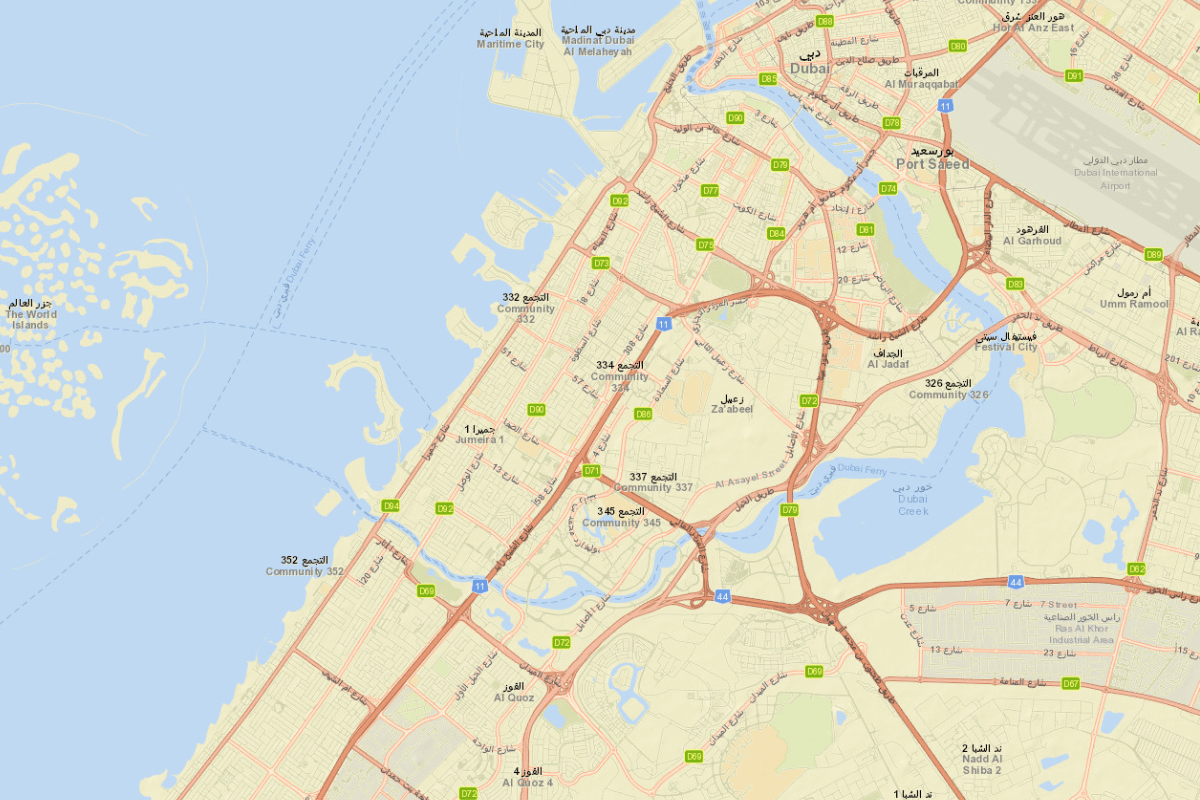
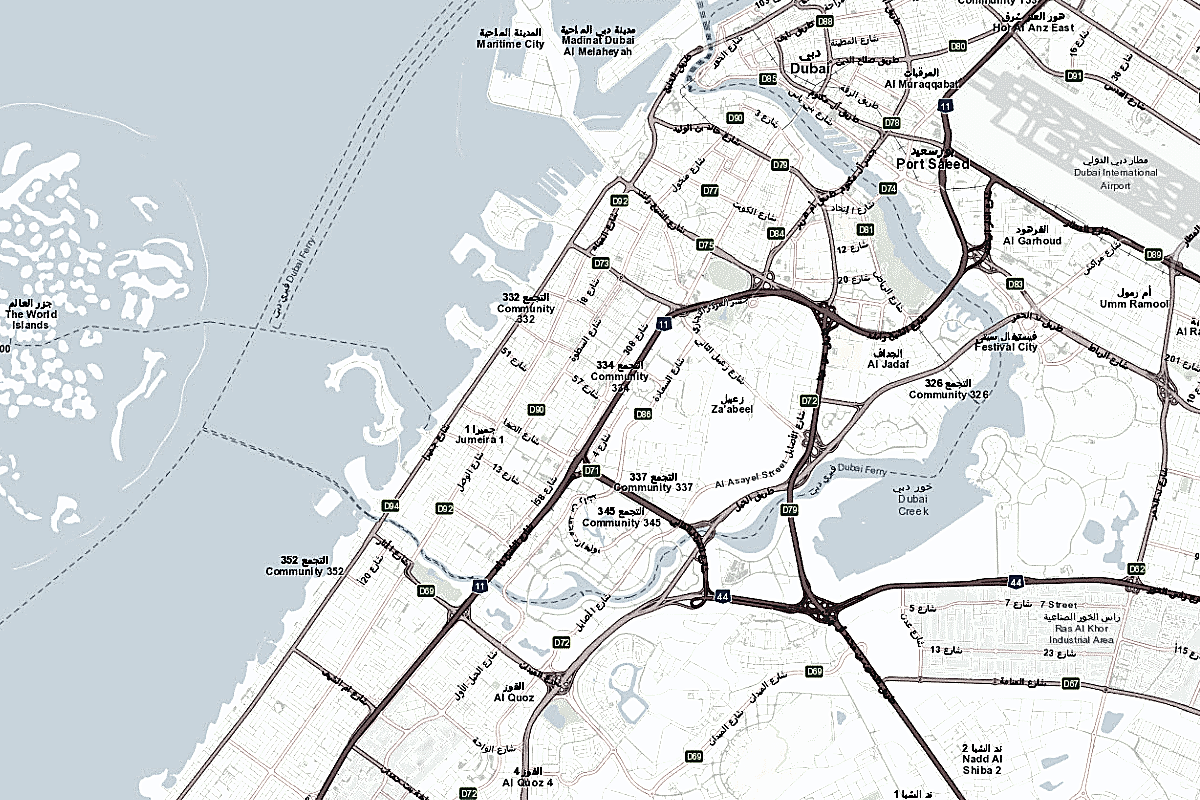
feat(guias): apply Modern light map style to all city guides
Ronilson chose Opção 2. Light Positron-like basemap assets for all
cities plus production CSS wash; footprint and pins unchanged.

diff --git a/src/app/globals.css b/src/app/globals.css
@@ -219,16 +219,14 @@ body {
   .guide-ken { animation: none; }
 }
 
-/* Modern cool theme over vintage city-map PNGs (shared by all guides). */
+/* Modern light (Opção 2) — production default for all city-guide 30s maps. */
 .guide-city-map {
-  background:
-    radial-gradient(circle at 28% 18%, rgba(125, 211, 252, 0.28), transparent 46%),
-    linear-gradient(160deg, #c9d9ea 0%, #e8eef6 52%, #c5d4e4 100%);
+  background: linear-gradient(160deg, #eef2f6 0%, #f7f9fb 100%);
 }
 
 .guide-city-map__img {
-  /* Cool/desaturate beige Stamen-like maps into a contemporary slate-blue read. */
-  filter: sepia(0.12) saturate(0.22) contrast(1.38) brightness(1.2) hue-rotate(198deg);
+  /* Light Positron-like assets; slight contrast keeps baked street/arrondissement labels readable. */
+  filter: contrast(1.08) brightness(1.03);
   transform: scale(1.02);
   transform-origin: center;
 }
@@ -236,48 +234,63 @@ body {
 .guide-city-map__wash {
   pointer-events: none;
   background:
-    linear-gradient(180deg, rgba(15, 23, 42, 0.18) 0%, transparent 30%, rgba(15, 23, 42, 0.2) 100%),
-    linear-gradient(120deg, rgba(14, 165, 233, 0.18), transparent 42%, rgba(99, 102, 241, 0.12));
-  mix-blend-mode: color;
-  opacity: 0.55;
+    linear-gradient(180deg, rgba(255, 255, 255, 0.28) 0%, transparent 35%, rgba(15, 23, 42, 0.08) 100%),
+    linear-gradient(120deg, rgba(148, 163, 184, 0.12), transparent 50%);
+  mix-blend-mode: normal;
+  opacity: 0.65;
 }
 
 .guide-city-map__wash::after {
   content: '';
   position: absolute;
   inset: 0;
-  background: linear-gradient(180deg, rgba(241, 245, 249, 0.08), transparent 40%, rgba(15, 23, 42, 0.12));
+  background: linear-gradient(180deg, rgba(248, 250, 252, 0.12), transparent 40%, rgba(15, 23, 42, 0.06));
   mix-blend-mode: soft-light;
 }
 
 .guide-city-map__grid {
   pointer-events: none;
-  opacity: 0.18;
+  opacity: 0.1;
   background-image:
-    linear-gradient(rgba(15, 23, 42, 0.07) 1px, transparent 1px),
-    linear-gradient(90deg, rgba(15, 23, 42, 0.07) 1px, transparent 1px);
+    linear-gradient(rgba(15, 23, 42, 0.06) 1px, transparent 1px),
+    linear-gradient(90deg, rgba(15, 23, 42, 0.06) 1px, transparent 1px);
   background-size: 44px 44px;
   mask-image: radial-gradient(circle at center, black 38%, transparent 90%);
 }
 
-/* Preview themes for /mapa-opcoes (production default = no data-map-theme / atual-slate). */
+/* Preview themes for /mapa-opcoes (production default = modern-light / no data-map-theme). */
+.guide-city-map[data-map-theme='atual-slate'] {
+  background:
+    radial-gradient(circle at 28% 18%, rgba(125, 211, 252, 0.28), transparent 46%),
+    linear-gradient(160deg, #c9d9ea 0%, #e8eef6 52%, #c5d4e4 100%);
+}
 .guide-city-map[data-map-theme='atual-slate'] .guide-city-map__img {
   filter: sepia(0.12) saturate(0.22) contrast(1.38) brightness(1.2) hue-rotate(198deg);
+}
+.guide-city-map[data-map-theme='atual-slate'] .guide-city-map__wash {
+  background:
+    linear-gradient(180deg, rgba(15, 23, 42, 0.18) 0%, transparent 30%, rgba(15, 23, 42, 0.2) 100%),
+    linear-gradient(120deg, rgba(14, 165, 233, 0.18), transparent 42%, rgba(99, 102, 241, 0.12));
+  mix-blend-mode: color;
+  opacity: 0.55;
+}
+.guide-city-map[data-map-theme='atual-slate'] .guide-city-map__grid {
+  opacity: 0.18;
 }
 
 .guide-city-map[data-map-theme='modern-light'] {
   background: linear-gradient(160deg, #eef2f6 0%, #f7f9fb 100%);
 }
 .guide-city-map[data-map-theme='modern-light'] .guide-city-map__img {
-  filter: none;
-  transform: scale(1.01);
+  filter: contrast(1.08) brightness(1.03);
+  transform: scale(1.02);
 }
 .guide-city-map[data-map-theme='modern-light'] .guide-city-map__wash {
   background:
-    linear-gradient(180deg, rgba(255, 255, 255, 0.25) 0%, transparent 35%, rgba(15, 23, 42, 0.08) 100%),
+    linear-gradient(180deg, rgba(255, 255, 255, 0.28) 0%, transparent 35%, rgba(15, 23, 42, 0.08) 100%),
     linear-gradient(120deg, rgba(148, 163, 184, 0.12), transparent 50%);
   mix-blend-mode: normal;
-  opacity: 0.7;
+  opacity: 0.65;
 }
 .guide-city-map[data-map-theme='modern-light'] .guide-city-map__grid {
   opacity: 0.1;

diff --git a/src/app/mapa-opcoes/page.js b/src/app/mapa-opcoes/page.js
@@ -55,24 +55,24 @@ const GEO_PINS = [
 
 export const MAP_STYLE_OPTIONS = [
   {
-    id: 'atual-slate',
-    name: 'Atual slate (produção)',
-    short: 'atual-slate',
-    description: 'CSS cool slate-blue atual sobre o PNG vintage — referência de produção.',
+    id: 'modern-light',
+    name: 'Modern light (produção)',
+    short: 'modern-light',
+    description: 'Opção 2 escolhida — base clara Positron-like + wash leve (produção em todos os guias).',
     mapSrc: '/images/maps/paris.png',
     pins: ORIG_PINS,
     productionLike: true,
-    cssTheme: 'atual-slate'
+    cssTheme: 'modern-light'
   },
   {
-    id: 'modern-light',
-    name: 'Modern light (Positron-like)',
-    short: 'modern-light',
-    description: 'Base cinza-clara tipo Carto Positron (ESRI Light Gray) com wash leve.',
-    mapSrc: '/images/maps/preview/paris-positron-like.png',
-    pins: GEO_PINS,
+    id: 'atual-slate',
+    name: 'Slate anterior',
+    short: 'atual-slate',
+    description: 'CSS cool slate-blue sobre o PNG vintage — estilo anterior à escolha.',
+    mapSrc: '/images/maps/vintage/paris.png',
+    pins: ORIG_PINS,
     productionLike: false,
-    cssTheme: 'modern-light'
+    cssTheme: 'atual-slate'
   },
   {
     id: 'dark-slate',
@@ -183,7 +183,7 @@ function MapPreview({ option, activeId = 'eiffel' }) {
 
 function PreviewInner() {
   const params = useSearchParams();
-  const styleId = params.get('style') || 'atual-slate';
+  const styleId = params.get('style') || 'modern-light';
   const shot = params.get('shot') === '1';
   const option =
     MAP_STYLE_OPTIONS.find((o) => o.id === styleId) || MAP_STYLE_OPTIONS[0];
@@ -223,8 +223,8 @@ function PreviewInner() {
             Opções de estilo do mapa — Paris
           </h1>
           <p className="mt-2 max-w-2xl text-sm text-text-muted">
-            Mesma região e pins. Carto CDN bloqueado neste ambiente; Positron/Voyager
-            aproximados via ESRI Light / OSM high-contrast. Sem Place IDs.
+            Produção = Modern light em todos os guias. Comparativo histórico das outras
+            opções; sem Place IDs.
           </p>
         </header>
 
